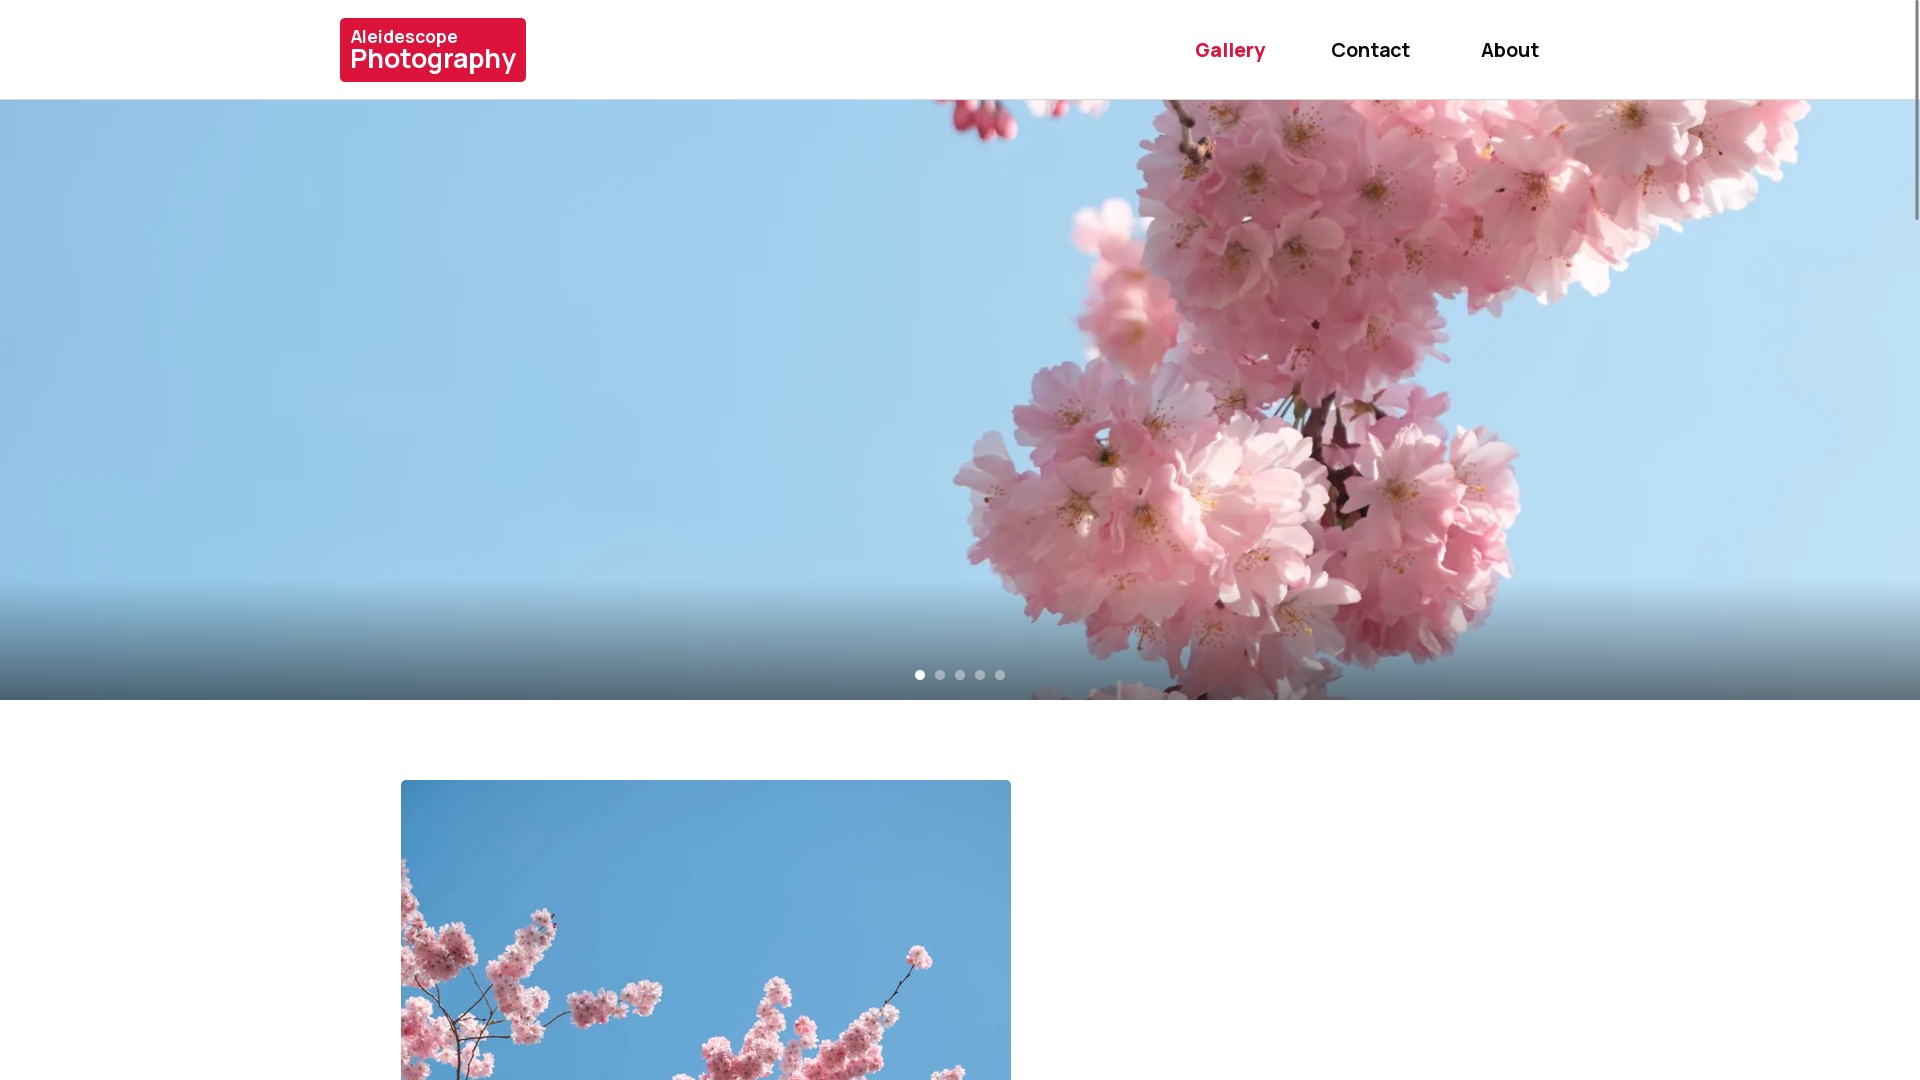
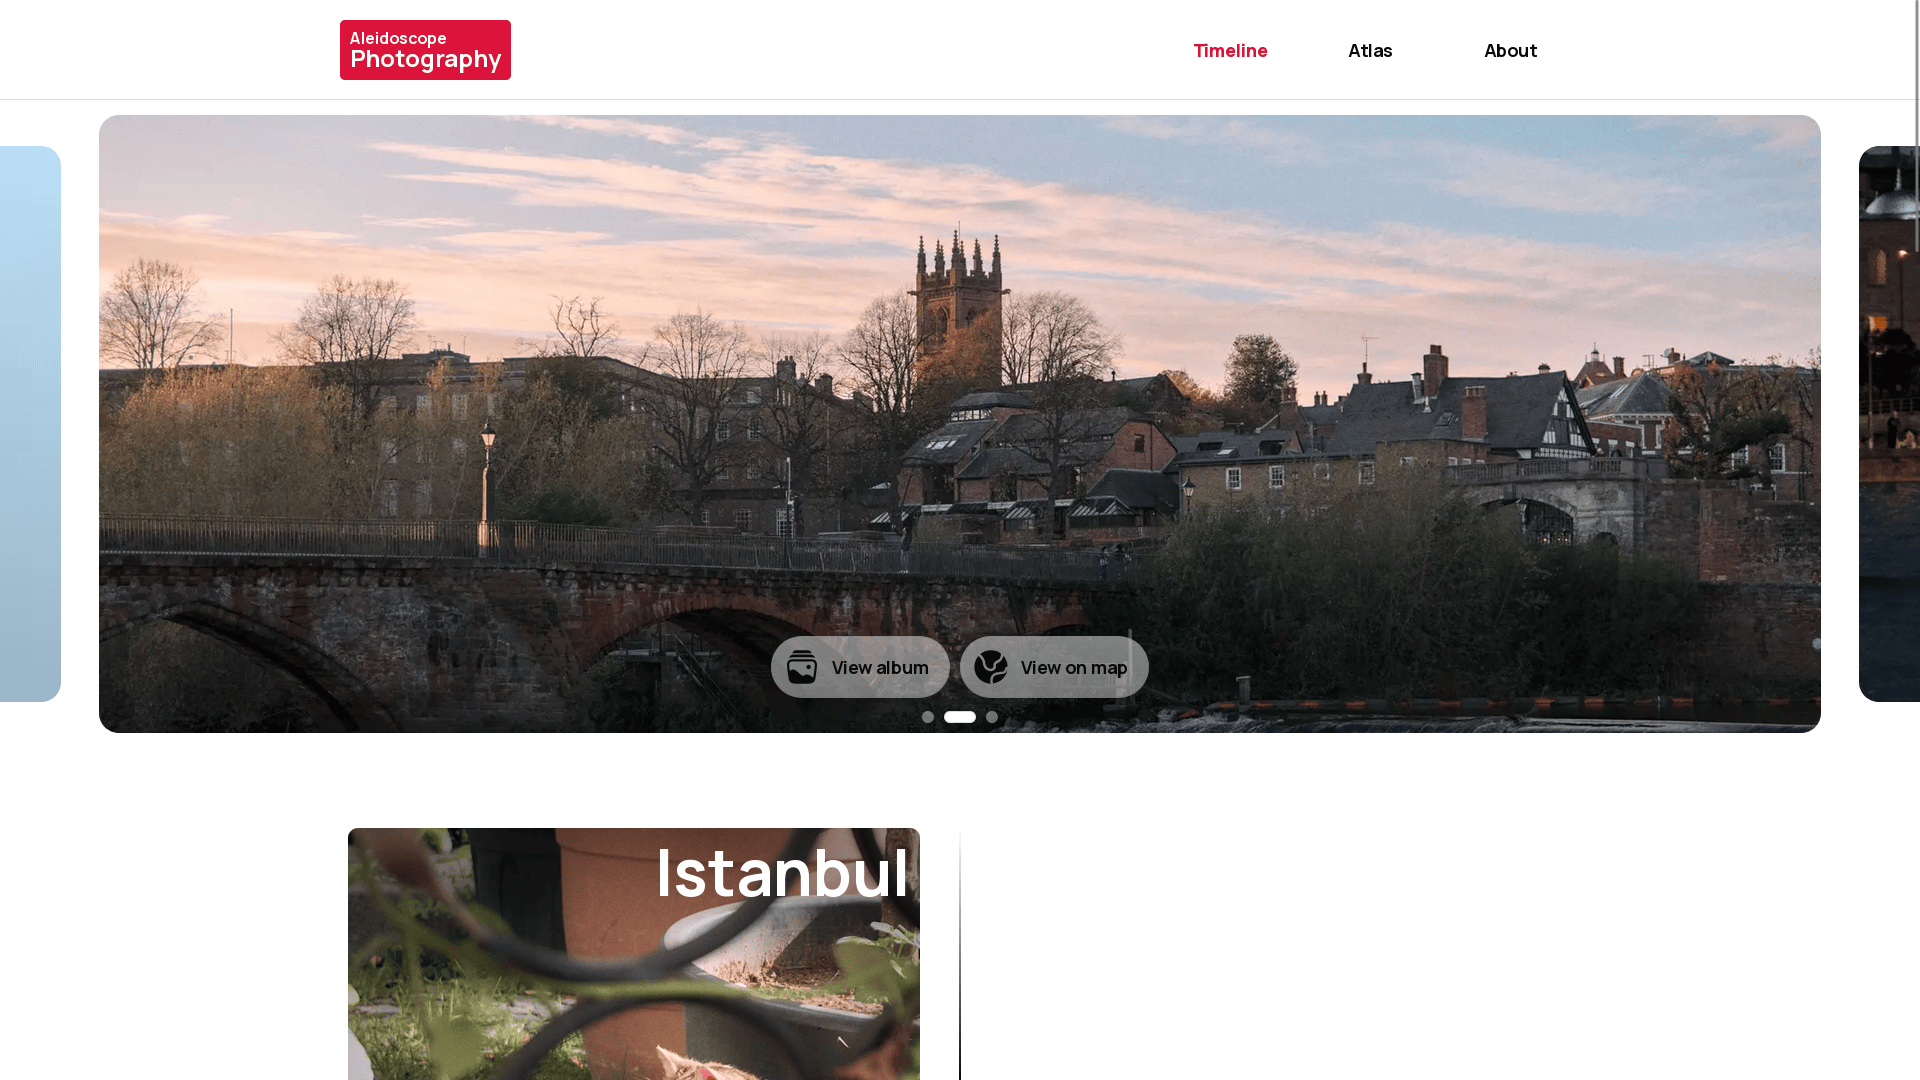
updated aleidoscope page contents

diff --git a/_projects/aleidoscope.md b/_projects/aleidoscope.md
@@ -15,33 +15,43 @@ icon: 'icons/PixelCamera.svg'
   <div class='section-content'>
     <div class='content'>
       <p>
-        Feeling that existing image sharing sites were too restrictive, with things such as limited aspect ratios, heavy image compression, and generally unfavourable policies, I decided to make my own platform where I could share my photography projects and better express myself without these limitations.
+        Having a hobby in photography, I’ve explored many existing photography sharing platforms and felt that they were too restrictive, with limitations such as locked aspect ratios, heavy image compression, limited uploads, and various paywalls. So I built my own platform where I could share my photography projects how I wanted and express myself without these limitations.
       </p>
+      <div class='figure-container-duel'>
+        <button class='figure'>
+          <img src='{{ site.baseurl }}/public/assets/aleidoscope-desktop-view.png' fetchpriority='high' alt='aleidoscope-desktop-view.png'>
+          <p>Desktop View</p>
+        </button>
+        <button class='figure'>
+          <img src='{{ site.baseurl }}/public/assets/aleidoscope-gallery-view.png' fetchpriority='high' alt='aleidoscope-gallery-view.png'>
+          <p>Gallery View</p>
+        </button>
+      </div>
       <h3 class='sub-heading'>Technologies</h3>
         <p>
-          For this project, I decided to use Next.js due to the project's scale and Next.js's built-in image optimisations. Next.js's Image component allows for images to be loaded lazily, as well as be given priority, so they can be loaded based on their importance. It also provides automatic resizing and compression based on the viewing device which optimises page weight.
+          For this project, I decide to use Next.js for its image optimisation and ecosystem. Its <code>&lt;Image&gt;</code> component allows images to be automatically scaled based on the viewing device and for lazy loading. On an image heavy site such as this it can greatly reduce the page weight on smaller devices. The ecosystem it provides also streamlined development, namely in database integration and the atlas page.
         </p>
       <h3 class='sub-heading'>Backend</h3>
         <p>
-          For hosting and serving images, I opted to use Supabase. Its JavaScript client, @supabase package, allowed for smooth integration which was great for development. As well as that, Supabase also provides a built-in CDN for faster image delivery, and images and albums to be easily managed. This all together made it an ideal fit for the project.
+          For hosting and serving images, I opted to use Supabase. Its JavaScript client, <code>@supabase/supabase-js</code>, smoothly integrated with Next.js and provided storage and database access in one package. As well as that, Supabase also provides a built-in CDN for faster image delivery, and makes it easy to manage images and albums. Altogether, this made it a good fit for the project.
         </p>
+      <h3 class='sub-heading'>Atlas</h3>
+        <p>
+          I take most of my photos while travelling, so I wanted a way to visualise where they were taken. To do this, I implemented lat and long values to each of my albums and displayed them into a customised interactive map using Leaflet. I call this page the Atlas and it provides visitors an alternative way to explore my work, and it’s a feature I found missing from other photography platforms or not very well implemented.
+        </p>
+      <button class='figure'>
+        <img src='{{ site.baseurl }}/public/assets/aleidoscope-atlas-view.png' fetchpriority='high' alt='aleidoscope-atlas-view.png'>
+        <p>Atlas View</p>
+      </button>
       <h3 class='sub-heading'>UX</h3>
         <p>
-          For this site I wanted to keep it simple and let the pictures speak for themselves while also featuring some commentary. So the design and layout ended up being quite simple while functional, with most of the space being occupied by images.
+          For this site I wanted to keep it simple and let the pictures speak for themselves. So the design and layout ended up being quite simple while functional, with most of the space being occupied by images.
         </p>
         <p>
-          I also wanted to make sure that the site was comfortable to navigate. As mobile devices are so prevalent (probably the primary device this site will be viewed on) and still getting bigger, I wanted to ensure that all navigation was within the thumb zone. So on mobile displays the navigation is moved to bottom, which is a design pattern that I hope becomes more common.
+          I also wanted to make sure that the site was comfortable to navigate. As mobile devices are so prevalent (probably the primary device this site will be viewed on), I wanted to ensure that all navigation was within the thumb zone. So on mobile displays the navigation is moved to bottom, which is a design pattern that I hope becomes more common.
         </p>
       <button class='figure'>
-        <img src='{{ site.baseurl }}/public/assets/aleidoscope-desktop-view.png' fetchpriority="high" alt="alt">
-        <p>Desktop View</p>
-      </button>
-      <button class='figure'>
-        <img src='{{ site.baseurl }}/public/assets/aleidoscope-gallery-view.png' fetchpriority="high" alt="alt">
-        <p>Gallery View</p>
-      </button>
-      <button class='figure'>
-        <img src='{{ site.baseurl }}/public/assets/aleidoscope-mobile-view.png' fetchpriority="high" alt="alt">
+        <img src='{{ site.baseurl }}/public/assets/aleidoscope-mobile-view.png' fetchpriority='high' alt='aleidoscope-mobile-view.png'>
         <p>Mobile View</p>
       </button>
     </div>
